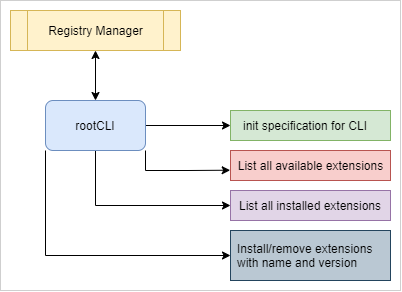
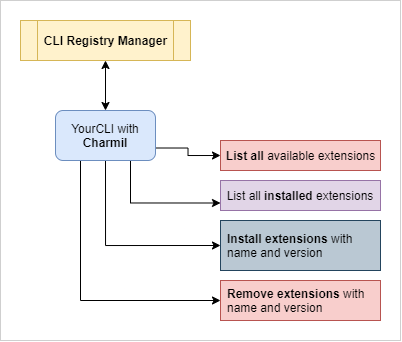
docs: impove specification WIP

diff --git a/README.md b/README.md
@@ -9,29 +9,36 @@ Charmil will let you control your cobra based CLIs and extend them without embee
 
 - Install any CLI as part of your host CLI (even CLI that you do not control)
 - Build and deploy registry with different versions of CLI's to install that can be hosted in Github Pages or as yaml files
-- Provide set of the cobra commands that will let users to install and manage all available extensions
-
-
-## Commands that will be added to your CLI by Charmil
-
-`$ yourCLi extensions list`
-
-`$ yourCLi extensions installed` # list installed ones
-
-`$ yourCLi extensions install <name>@<version>`
-
-`$ yourCLi extensions remove <name>@<version>`
-
+- Provide set of the cobra commands that will let users to install, update, remove or manage all available extensions
 
 ## Getting started
 
 ### Adding library to your existing CLI
 
-TODO
+Include Charmil in your CLI by doing `$ go get -u github.com/aerogear/charmil`
+
+## Commands that will be added to your CLI by Charmil
+
+Execute the following commands for the respective operations:
+
+1. List all the available extensions
+   > `$ yourCLi extensions list`
+2. List all the installed extensions
+   > `$ yourCLi extensions installed`
+3. Install the extention in your CLI via name and version
+   > `$ yourCLi extensions install <name>@<version>`
+4. Remove the extension from your CLI
+   > `$ yourCLi extensions remove <name>@<version>`
+
+You can import charmil in your CLI, which will provide you all the extensions out of the box. You can install specific plugins with the install command.
+
+After installing the extension, users can use the features of that plugin without writing code for that particular feature which that plugin provides.
+
+> TODO
 
 ### Creating registry of CLIs
 
-TODO
+> TODO
 
 For full example of registry look into:
 https://aerogear.github.io/charmil/registry/example/registry.json
@@ -39,3 +46,5 @@ https://aerogear.github.io/charmil/registry/example/registry.json
 ## Architecture
 
 ![architecture](mockups/architecture.png)
+
+> TODO
